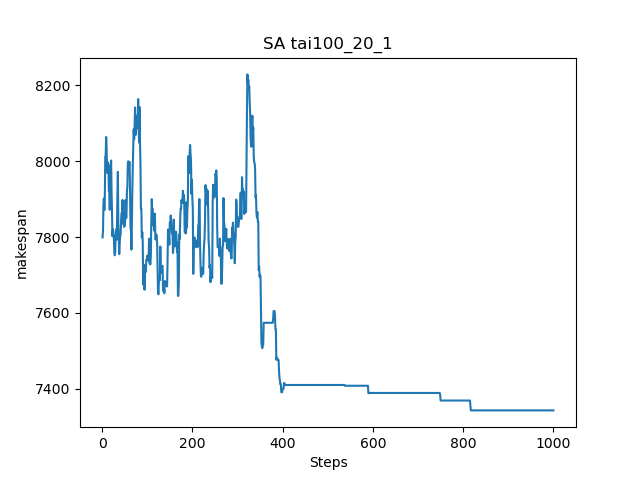
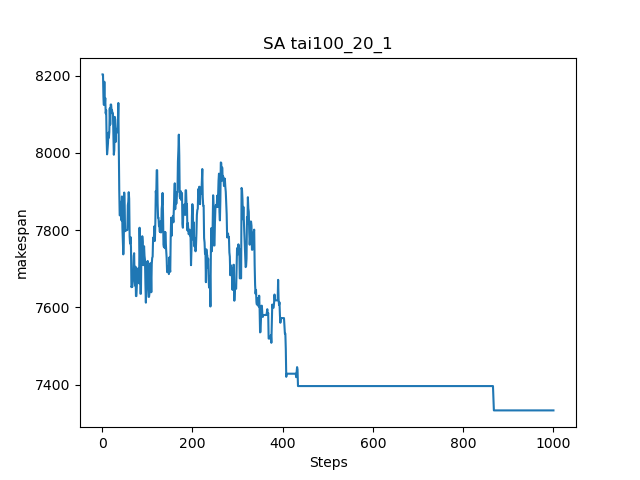
Run the main experiment

diff --git a/HW01/SA.py b/HW01/SA.py
@@ -1,6 +1,7 @@
 import random
 import math
 import matplotlib.pyplot as plt
+import time
 
 # ReadData method
 def ReadData( filepath: str ) -> tuple[ int, int, list[ list[ int ] ] ]:
@@ -74,7 +75,7 @@ for each in filenames:
 
     ### Parameters for SA
     epochLength = 10     # <--- Modify if needed
-    temperature = 3000  # <--- Modify if needed
+    temperature = 1000  # <--- Modify if needed
     coolingFactor = 0.9   # <--- Modify if needed
     MaxSteps = 1000      # <--- Modify if needed
 
@@ -86,10 +87,14 @@ for each in filenames:
     jobs = Data[1]
     data = Data[2]
     plotCase = random.randrange( 0, cases + 1, 1 )
+    timeCount = 0
 
     ## Initial Solution: generating via randomness
 
     for _ in range( cases ):
+        # If you are testing the program, I really recommend to uncomment the following line to print log file?
+        #print( f'\t--- In {each} case {_}/50' )
+        startTime = time.time()
 
         sol = [ i for i in range( jobs ) ]
         random.shuffle( sol )
@@ -112,18 +117,18 @@ for each in filenames:
                 swap( TestSol, i, j )
 
                 ## Calculate Machine Time
-                time = SpantimeCalculate( TestSol, data, jobs, machines )
-                #print(f'curr = {curr}, time = {time}, step = {__}, cases = {_}')
+                Time = SpantimeCalculate( TestSol, data, jobs, machines )
+                #print(f'curr = {curr}, Time = {Time}, step = {__}, cases = {_}')
 
                 ## Selecting Function
-                if time < curr:
-                    curr = time
+                if Time < curr:
+                    curr = Time
                     sol = TestSol
                     BIFlag = 0
                 else:
-                    #print(f'{math.exp( ( curr - time ) / temperature )}, {temperature}')
-                    if math.exp( ( curr - time ) / temperature ) > random.uniform( 0.0, 1.0 ):
-                        curr = time
+                    #print(f'{math.exp( ( curr - Time ) / temperature )}, {temperature}')
+                    if math.exp( ( curr - Time ) / temperature ) > random.uniform( 0.0, 1.0 ):
+                        curr = Time
                         sol = TestSol
                         BIFlag = 0
 
@@ -136,7 +141,7 @@ for each in filenames:
             if _ == plotCase:
                 plotX.append( __ + 1 )
                 plotY.append( curr )
-        
+
         #print( f'\t\tIn {_} round: {curr}' )
         if curr < best:
             best = curr
@@ -151,12 +156,16 @@ for each in filenames:
             plt.xlabel("Steps")
             plt.ylabel("makespan")
             plt.plot( plotX, plotY, )
-            plt.savefig(f'./statistics/plot/SA/SA_{each[:-4]}.png')
+            plt.savefig(f'./statistics/plot/SA/Normal/SA_{each[:-4]}.png')
             plt.clf()
+
+        endTime = time.time()
+        timeCount += ( endTime - startTime )
 
     avg = round( total / cases, 2 )
     standardDeviation = round( math.sqrt( ( standardDeviation / cases ) - ( avg * avg ) ), 2 )
+    avgTime = round( timeCount / cases, 2 )
 
-    print( f'In {each}:\n\tBest: {best}\n\tWorst: {worst}\n\tAverage: {avg}\n\tStandard deviation: {standardDeviation}' )
-    f2.write( f'\t{each}\t{best}\t{avg}\t{worst}\t{standardDeviation}\n' )
+    print( f'In {each}:\n\tBest: {best}\n\tWorst: {worst}\n\tAverage: {avg}\n\tStandard deviation: {standardDeviation}\n\tTime: {avgTime}' )
+    f2.write( f'\t{each}\t{best}\t{avg}\t{worst}\t{standardDeviation}\t{avgTime}\n' )
 f2.close()
